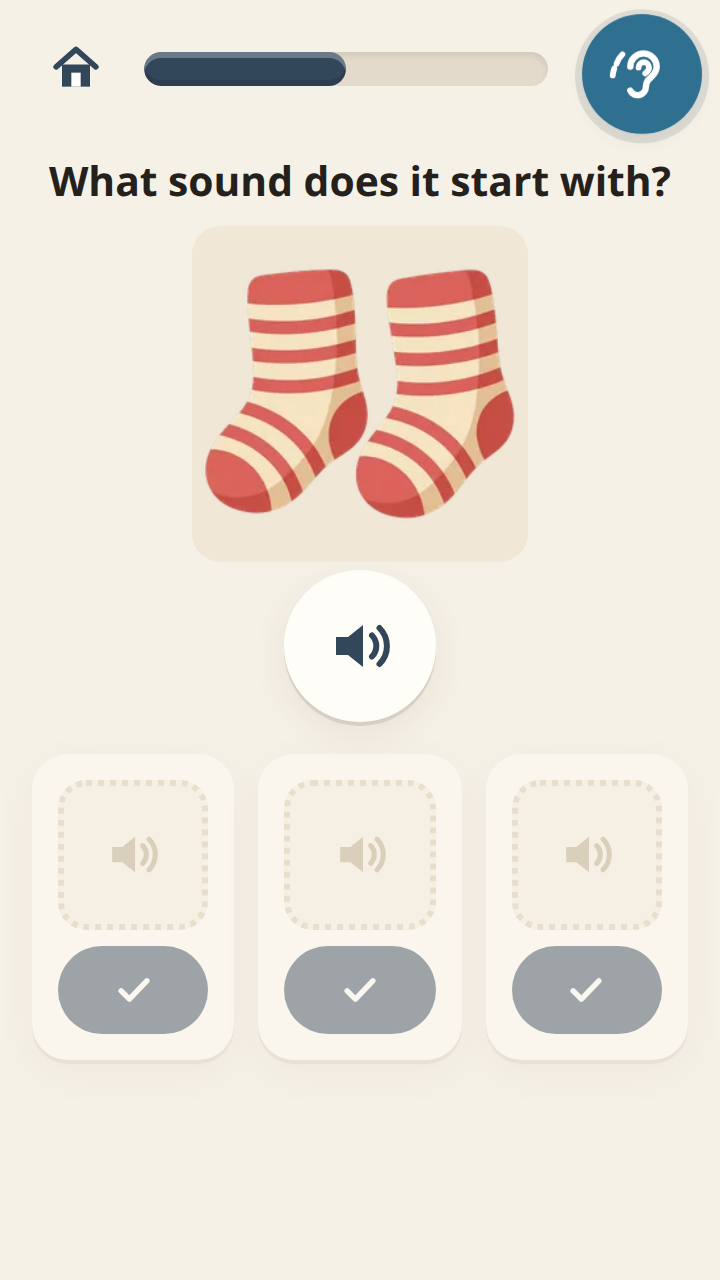
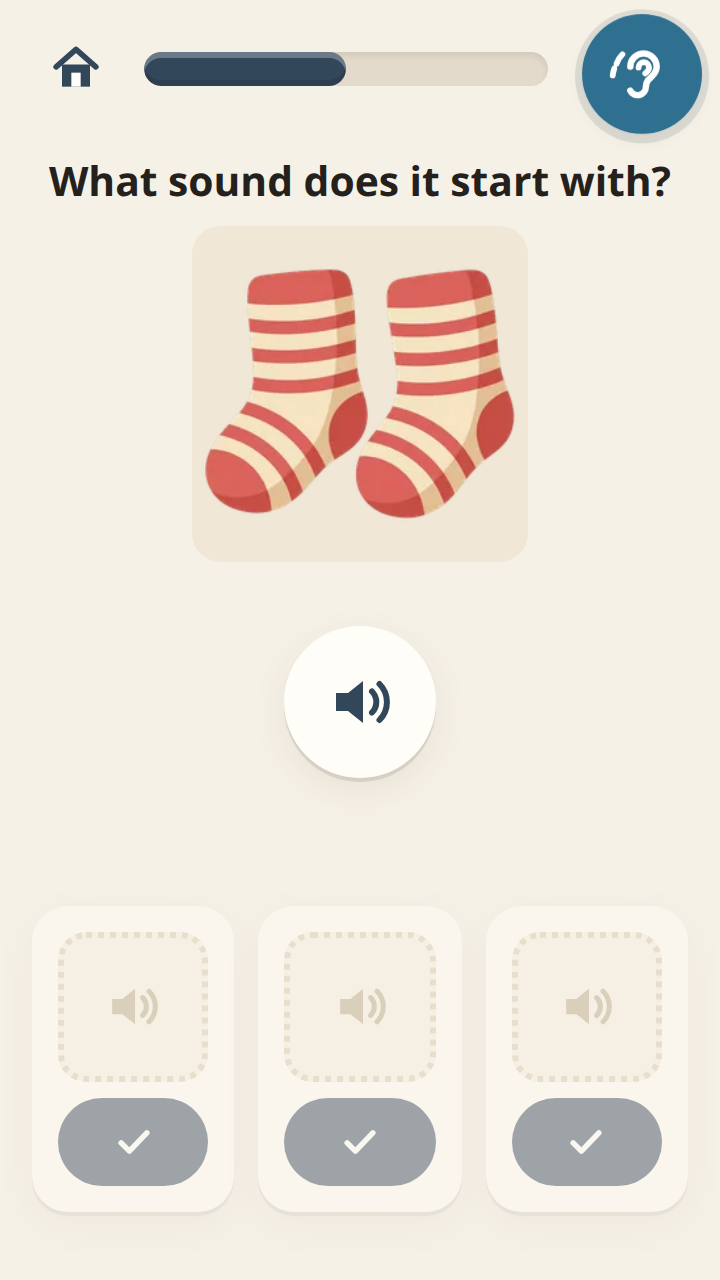
app: Tilo lesson beat (big Tilo + bubble on intro/demo/first screens), question screens anchor options low; drive_session CSP-safe evaluates

diff --git a/app/src/tilo.js b/app/src/tilo.js
@@ -14,7 +14,7 @@ const POSES = ['idle', 'listening', 'encouraging', 'celebrating', 'speaking'];
 const FLAP = ['mid', 'aaa', 'mid', 'mmm', 'aaa', 'mid'];   // no 'ooo': a round 'o' with a raised arm read as shock in the critic round
 const reduced = () => !!window.matchMedia?.('(prefers-reduced-motion: reduce)').matches;
 
-const st = { homeHost: null, track: null, mood: 'idle', emote: null, emoteKey: null, pinned: null, speaking: false, mouth: 'mid', offT: 0, emoteT: 0, flapT: 0, host: null };
+const st = { beat: null, homeHost: null, track: null, mood: 'idle', emote: null, emoteKey: null, pinned: null, speaking: false, mouth: 'mid', offT: 0, emoteT: 0, flapT: 0, host: null };
 let el = null, stage = null, bubble = null; const bodies = {}, mouths = {};
 
 function img(src, cls) { const i = new Image(); i.className = cls; i.alt = ''; i.decoding = 'async'; i.src = BASE + src; return i; }
@@ -69,8 +69,10 @@ function bubbleText() {
 }
 function renderBubble(on) {
   if (!bubble) return;
-  const hdr = st.host?.closest?.('header.hdr') || null;
-  const text = on && st.track === 'A' && hdr ? bubbleText() : '';
+  // a lesson beat (big Tilo in the body): the bubble sits beside him and stays up for the whole screen
+  const beat = st.beat && st.beat.box.isConnected ? st.beat : null;
+  const hdr = beat ? beat.box : (st.host?.closest?.('header.hdr') || null);
+  const text = st.track !== 'A' || !hdr ? '' : beat ? beat.text : (on ? bubbleText() : '');
   if (text) { if (bubble.parentNode !== hdr) hdr.append(bubble); bubble.textContent = text; bubble.classList.add('on'); }
   else bubble.classList.remove('on');
 }
@@ -107,9 +109,13 @@ export const tilo = {
   // a new screen: back in the corner, calm, nothing pinned
   screen() {
     if (!el) build();
-    st.uiKey = false; st.mood = 'idle'; st.emote = null; st.emoteKey = null; st.pinned = null; clearTimeout(st.emoteT);
+    st.beat = null; st.uiKey = false; st.mood = 'idle'; st.emote = null; st.emoteKey = null; st.pinned = null; clearTimeout(st.emoteT);
     tilo.dock(st.homeHost && st.homeHost.isConnected ? st.homeHost : null); render();
   },
+  // lesson beat (intro / demo screens): Tilo big in the body, `box` = the .beat wrapper that holds `slot` and the bubble. Lasts until the next screen().
+  beat(slot, box, text) { if (!el) build(); st.beat = { box, text }; tilo.dock(slot); render(); },
+  // the beat is over (the story starts, or the screen is too full to hold a big Tilo): back to the header, same screen
+  endBeat() { if (!st.beat) return; st.beat = null; tilo.dock(st.homeHost && st.homeHost.isConnected ? st.homeHost : null); render(); },
   // a persistent spot for this screen group (the sitting header); mount() clears it
   setHome(host) { st.homeHost = host; if (host) tilo.dock(host); },
   // put Tilo inside a host element (Home hero, end screen) or back in the fixed corner (null)

diff --git a/app/src/style.css b/app/src/style.css
@@ -70,7 +70,7 @@ header.hdr { position: relative; display: flex; align-items: center; gap: 12px; 
 .close { width: 44px; height: 44px; border-radius: 50%; border: 0; background: transparent; font-size: 1.8rem; color: var(--muted); }
 .progress { flex: 1; height: 17px; background: var(--line); border-radius: 99px; overflow: hidden; box-shadow: inset 0 2px 3px rgba(0,0,0,.08); } .progress i { display: block; height: 100%; width: 0; background: var(--accent); border-radius: 99px; transition: width .4s; box-shadow: inset 0 -3px 0 rgba(0,0,0,.12), inset 0 3px 0 rgba(255,255,255,.28); }
 .speaker.hdr { width: 44px; height: 44px; } .speaker.hdr svg { width: 22px; height: 22px; }
-.stage { flex: 1; } .screen { display: flex; flex-direction: column; align-items: center; }
+.stage { flex: 1; display: flex; flex-direction: column; } .screen { display: flex; flex-direction: column; align-items: center; flex: 1; width: 100%; }
 .foot { display: flex; gap: 10px; justify-content: center; padding: 14px 0 6px; }
 .foot .btn { min-width: 140px; }
 .prompt { text-align: center; font-size: 1.05rem; margin: 10px 0; }
@@ -236,3 +236,16 @@ button:focus:not(:focus-visible), a:focus:not(:focus-visible) { outline: none; }
 @media (max-height: 700px) { .l1-opts.speaker-only .opt { min-height: 160px; } .l1-opts.speaker-only .opt-play { width: 72px; height: 72px; margin-top: 8px; } }
 /* story: three panels, the third centred on its own row (no empty cell) */
 .pics.story > .picture:last-child:nth-child(odd) { grid-column: 1 / -1; justify-self: center; width: calc(50% - 5px); }
+
+/* ---- fill the height: on question screens the heading and picture stay up top and the answer cards sit low, in thumb reach ---- */
+.screen > .options { margin-top: auto; margin-bottom: 14px; }
+.screen > .pics.scene { margin-top: auto; margin-bottom: 14px; }
+
+/* ---- Tilo lesson beat (Track A intro / demo screens): big Tilo in the body, bubble beside him; the header Tilo steps aside ---- */
+.has-beat .hdr-tilo { display: none; }
+.beat { display: flex; align-items: center; gap: 6px; width: 100%; margin: 2px 0 6px; }
+.beat .tilo-slot { flex: none; display: block; }
+.beat .tilo.inline { width: 150px; }
+.beat .tilo-bubble { position: relative; left: auto; top: auto; flex: 1; width: auto; max-width: none; white-space: normal; overflow: visible; font-size: 1.05rem; padding: 10px 14px; border-radius: 22px; transform-origin: 0 50%; }
+.beat .tilo-bubble::before { top: calc(50% - 7px); left: -9px; }
+.screen:has(> .options) > .speaker.big { margin-block: auto; }   /* the speaker sits in the middle of the free space, the cards stay low */

diff --git a/app/src/session.js b/app/src/session.js
@@ -48,10 +48,21 @@ export async function runSitting(app, profile, key) {
   let stepN = 0; const totalSteps = sitting.steps.length;
   const ctx = {
     track, lesson, sitting, profile,
-    stage() { teacher.newScreen(); body.replaceChildren(); foot.replaceChildren(); const s = h('div', { class: 'screen', 'data-step': ctx.step || '' }); body.append(s); return s; },
+    // opts.beat = a line for Tilo's speech bubble: Track A shows him big in the body beside it (intro / demo screens); the first screen of every sitting is one too.
+    // The header Tilo hides while a beat is up (root.has-beat), so there are never two. Track B has no mascot, so no beat.
+    endBeat() { root.classList.remove('has-beat'); root.querySelector('.beat')?.remove(); tilo.endBeat(); },
+    stage(opts = {}) {
+      teacher.newScreen(); body.replaceChildren(); foot.replaceChildren();
+      const s = h('div', { class: 'screen', 'data-step': ctx.step || '' }); body.append(s);
+      const line = track === 'A' ? (opts.beat || (ctx.beaten ? null : "Let's begin!")) : null; ctx.beaten = true;
+      root.classList.toggle('has-beat', !!line);
+      if (line) { const slot = h('div', { class: 'tilo-slot' }); const box = h('div', { class: 'beat' }, slot); s.append(box); tilo.beat(slot, box, line); }
+      return s;
+    },
     // say what to do (then the stimulus); the ear button and the idle ladder say it again. A pending arc line
     // ("halfway", "last one") goes in front of the first prompt of its step.
     async instruct(k, opts) {
+      if (root.classList.contains('has-beat') && root.getBoundingClientRect().height > window.innerHeight + 1) ctx.endBeat();   // a full screen (answer cards) has no room for a big Tilo: he goes back to the header
       const pre = ctx.pre; ctx.pre = null;
       const keys = [...(pre ? [`ui:${pre}`] : []), ...(Array.isArray(k) ? k : [k])];
       return teacher.prompt(keys, { nudge: NUDGE[String(ctx.step).split('-')[0]] || 'ui:idlePick', ...opts });

diff --git a/app/src/screens/listen.js b/app/src/screens/listen.js
@@ -8,10 +8,11 @@ import { tilo } from '../tilo.js';
 
 export async function listen(ctx) {
   const li = ctx.lesson.listen; const lid = ctx.lesson.id;
-  const s = ctx.stage();
+  const s = ctx.stage({ beat: "Let's listen to a story!" });
   const pics = h('div', { class: 'pics story' });
   s.append(h('h2', {}, li.title || 'Listen'), h('p', { class: 'muted' }, 'You don\'t need to read this. Just listen.'), pics);
   await ctx.instruct('ui:listenIntro', { nudge: 'ui:idleTap' });
+  ctx.endBeat();   // Tilo's intro is done; the story pictures need the room, so he goes back to the header
   if (ctx.hasClip(`lt:${lid}:title`)) await play(`lt:${lid}:title`);
   for (let i = 0; ctx.hasClip(`lt:${lid}:${i}`); i++) {
     await play(`lt:${lid}:${i}`);

diff --git a/app/src/gate.js b/app/src/gate.js
@@ -41,7 +41,7 @@ async function demo(ctx, w) {
   const cand = Object.keys(options).find(k => k !== w.toLowerCase() && entry(k)?.kind === 'real' && entry(k).g.every(g => known.has(g)) && has(`w:${k}`));
   try { localStorage.setItem(key, '1'); } catch { /* ignore */ }
   if (!cand) return;
-  const stage = ctx.stage();
+  const stage = ctx.stage({ beat: "Let's do one together!" });
   const box = printedWord(cand, 'real', ctx.track);
   stage.append(h('p', { class: 'prompt' }, "Let's do one together."), box);
   mark('gate-demo', { word: cand });

diff --git a/tools/shoot_tilo.py b/tools/shoot_tilo.py
@@ -114,6 +114,24 @@ def main():
                 pg.wait_for_function("[...document.querySelectorAll('.nudge, .ear.attn')].some(e => +(getComputedStyle(e).outlineColor.match(/[\\d.]+/g)[3] ?? 1) > .35)", timeout=6000)   # shoot at the halo's peak (it pulses)
                 shot(pg, "A_idle_hint"); pg.evaluate("window.__so.teacher.clearHints()"); time.sleep(0.5); shot(pg, "A_idle")
                 if pg.evaluate("document.querySelector('.nudge, .ear.attn')"): problems.append("a hint ring is still on after clearHints")
+            # ---- the lesson beat: big Tilo in the body with his bubble (Listen intro), the header Tilo hidden so there is never a second one
+            pg = newpage(); onboard(pg, "A")
+            pg.evaluate("() => { window.__so.app.home(); }"); pg.wait_for_selector(".home .node", timeout=8000)
+            keys = pg.evaluate("[...document.querySelectorAll('.home .node[data-key]')].map(n => [n.dataset.key, n.textContent.trim()])")
+            lk = next((k for k, t in keys if k.startswith("L1.01:") and "Listen" in t), None)
+            if not lk: problems.append(f"no Listen node for the lesson beat in {keys[:6]}")
+            else:
+                pg.evaluate(f"() => {{ window.__so.app.sitting('{lk}'); }}")
+                try: pg.wait_for_selector(".beat .tilo-bubble.on", timeout=20000)
+                except Exception: problems.append("lesson beat never appeared on the Listen intro")
+                else:
+                    time.sleep(0.5)
+                    w = pg.evaluate("document.querySelector('.beat .tilo').getBoundingClientRect().width")
+                    if not 140 <= w <= 180: problems.append(f"beat Tilo is {w:.0f}px wide, want 140-180")
+                    n = pg.evaluate("[...document.querySelectorAll('.tilo')].filter(e => !e.hidden && e.offsetParent !== null).length")
+                    if n != 1: problems.append(f"{n} Tilos visible during the beat, want exactly 1")
+                    if pg.evaluate("document.querySelector('.sitting').getBoundingClientRect().height > window.innerHeight + 1"): problems.append("lesson beat screen overflows 360x640")
+                    shot(pg, "A_lesson_beat")
             # ---- Home (Tilo in the hero) and the end-of-sitting hero
             pg.evaluate("window.__so.app.home()"); pg.wait_for_selector(".home .tilo-slot .tilo"); time.sleep(0.5)
             pg.screenshot(path=str(OUT / "A_home.png"))

diff --git a/tools/drive_session.py b/tools/drive_session.py
@@ -47,7 +47,7 @@ def run_all(br, problems, url, levels=(5, 6, 7)):
         problems.append("[S] practice levels open before the Level 4 check")
     if not page.locator(".ss-practice .ss-libbtn").count(): problems.append("[S] no Library entry on Home")
     page.click(".ss-practice .ss-libbtn"); page.wait_for_selector(".ss-library")
-    page.evaluate("window.__so.trace.length = 0; window.__so.missing.length = 0")   # audit only what the L5-7 screens ask for
+    page.evaluate("() => { window.__so.trace.length = 0; window.__so.missing.length = 0; }")   # audit only what the L5-7 screens ask for
     page.screenshot(path=str(SHOTS / "S_01_library.png"), full_page=True)
 
     def check_speakers(lid):
@@ -132,7 +132,7 @@ def act(page):
             return
         for c in page.locator(".ss-chip:not(.done)").all()[:2]: c.click()
     if step == "ss-fluency" and page.locator(".ss-start").is_visible() and page.inner_text(".ss-start") == "Start 1-minute read":
-        page.click(".ss-start"); page.wait_for_function("document.querySelector('.ss-pace').textContent.startsWith('Time')", timeout=8000)
+        page.click(".ss-start"); page.wait_for_function("() => document.querySelector('.ss-pace').textContent.startsWith('Time')", timeout=8000)
         page.screenshot(path=str(SHOTS / "S_fluency-pick.png"))
         page.locator(".ss-w").nth(min(9, page.locator(".ss-w").count() - 1)).click(); time.sleep(0.2)
         if "words" not in page.inner_text(".ss-pace"): raise AssertionError("pace not shown")
